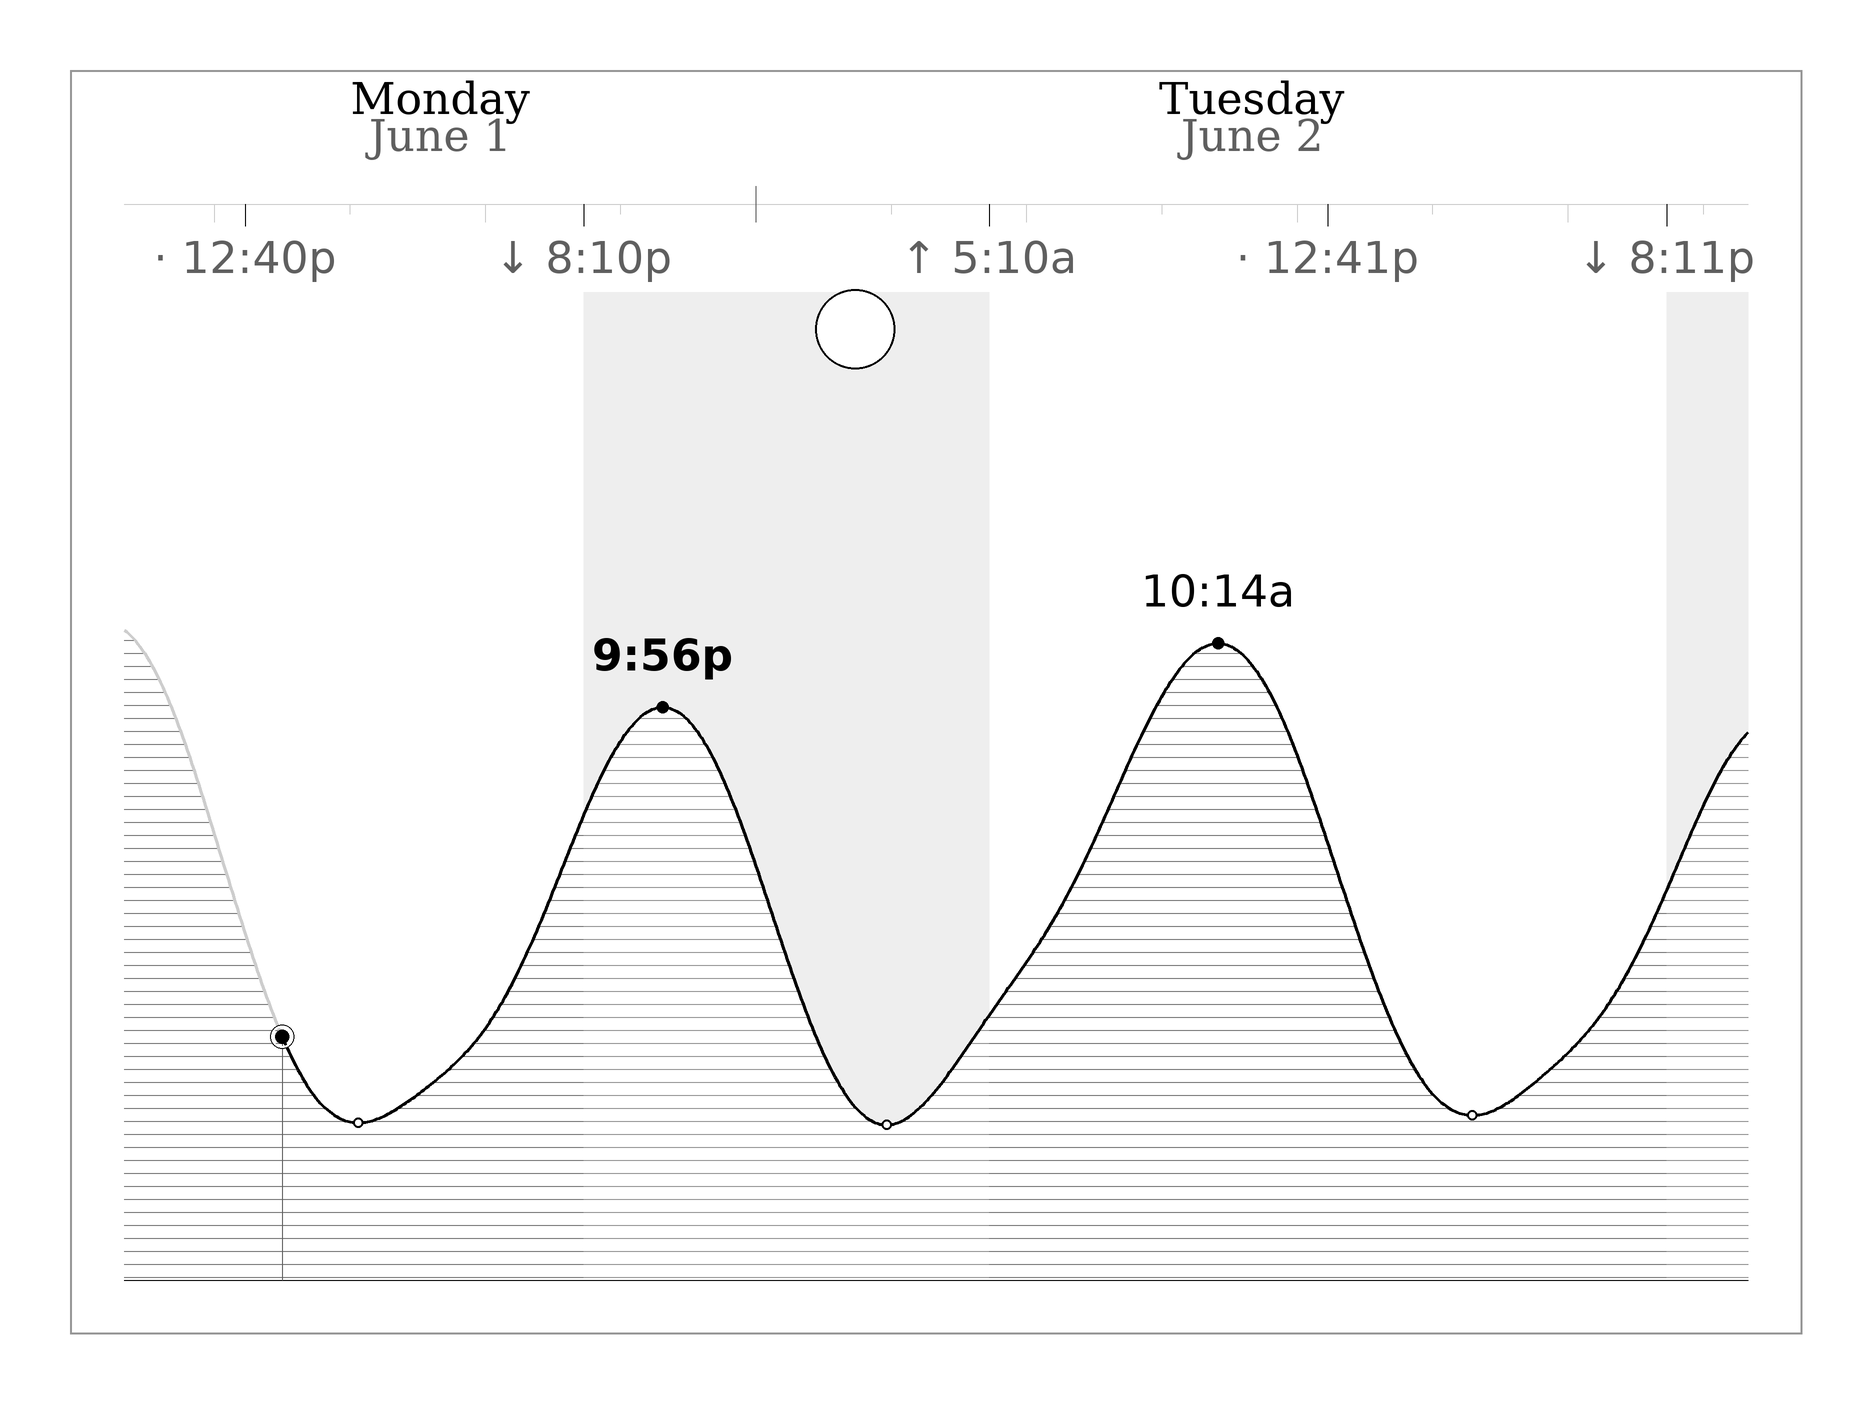
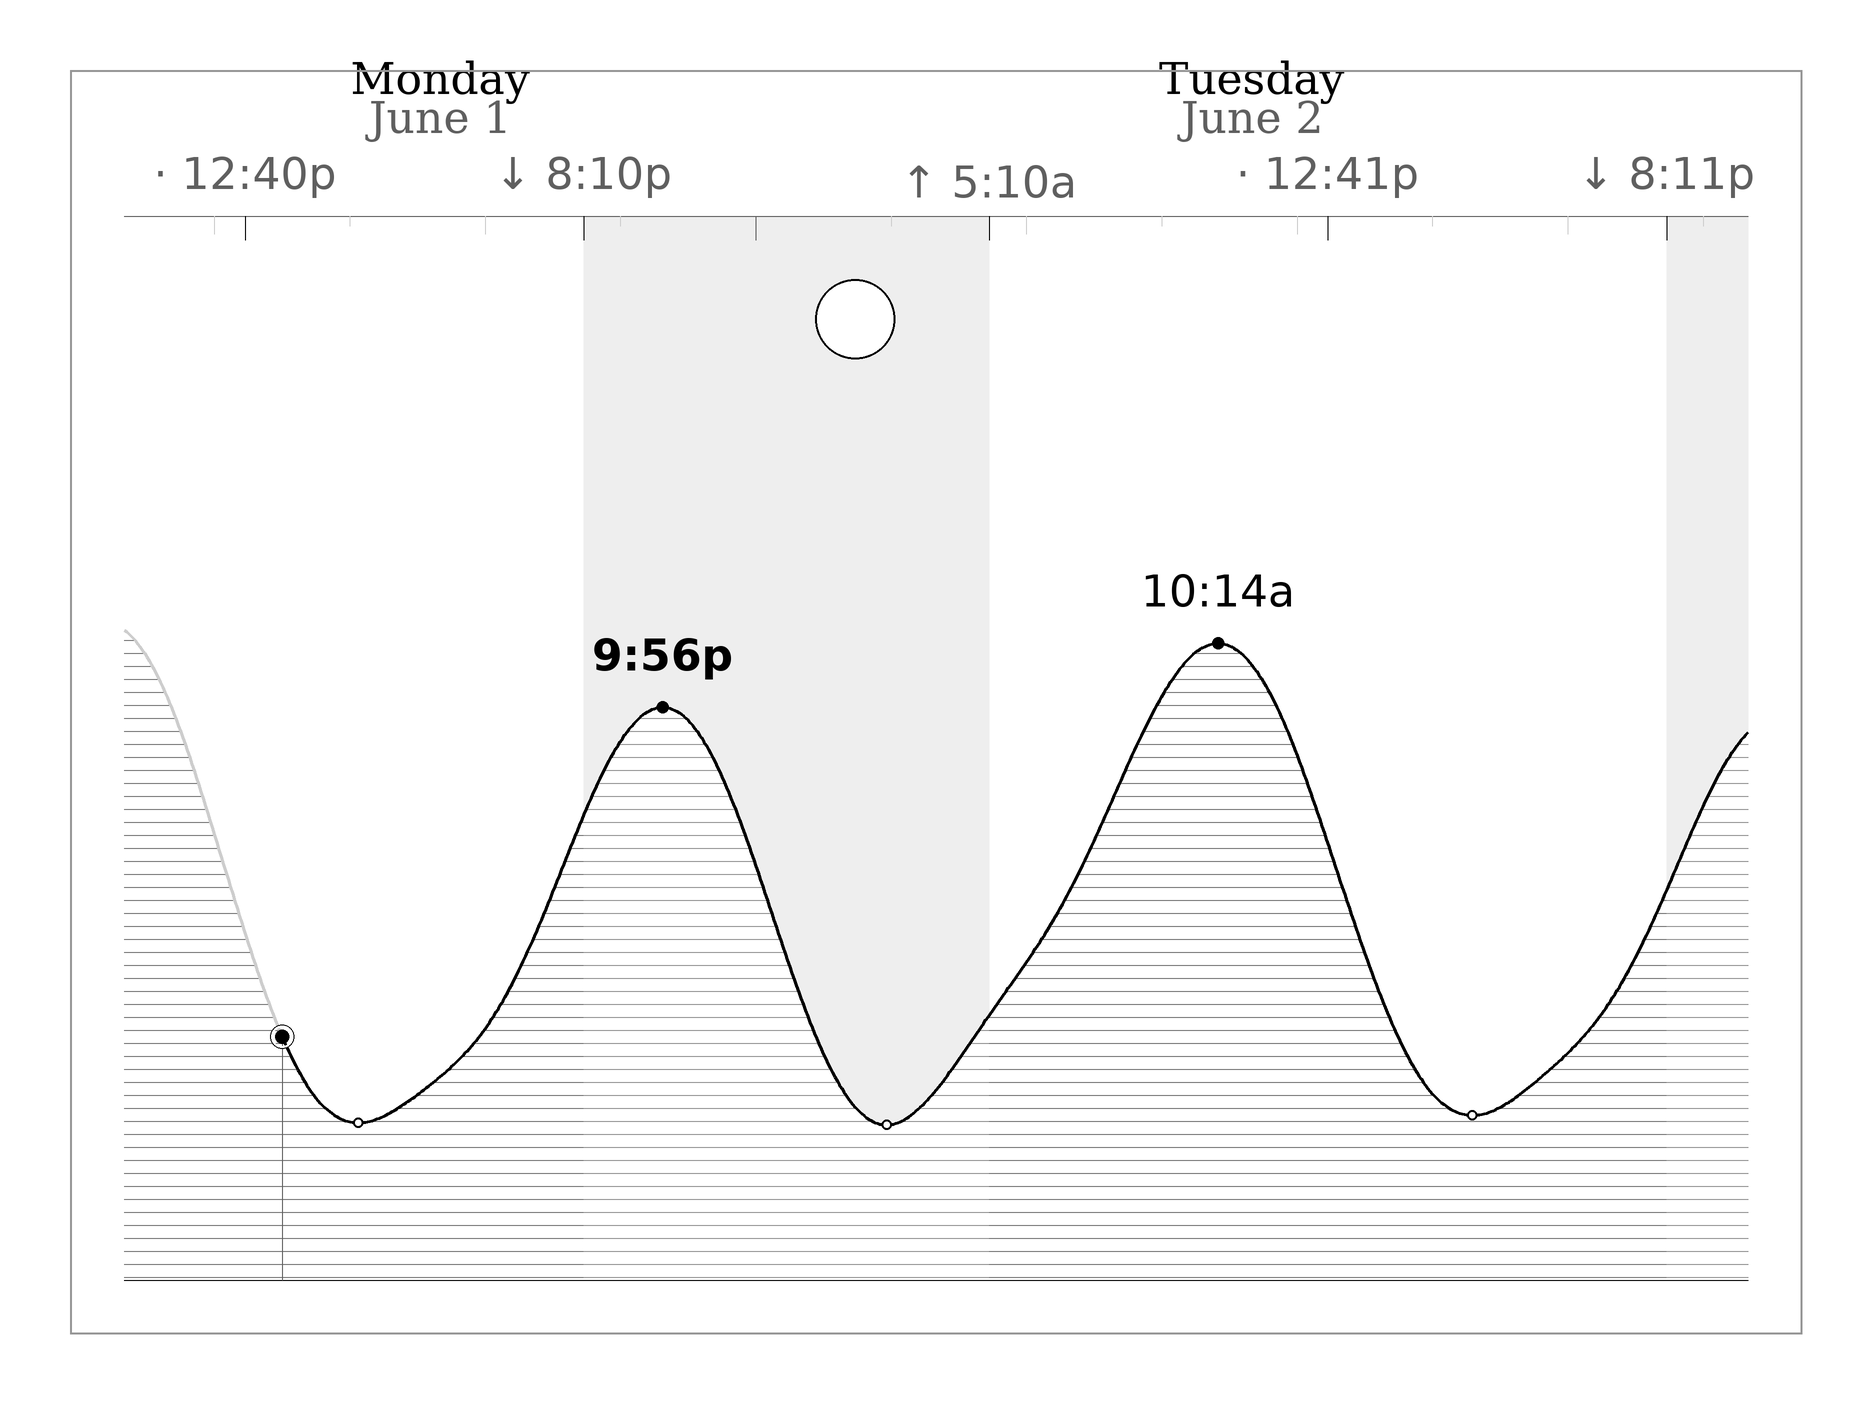
Stack the top in three rows; axis line is the night-box ceiling
Reorder the top chart furniture, top to bottom:
  1. day + date
  2. sunrise / solar noon / sunset times
  3. the x-axis line + 3h/6h/midnight ticks

The axis line now forms the top edge of the grey night boxes, and the hour
ticks hang downward into them, tying the furniture to the chart. Sun-event
ticks are darker/longer to stand out from the hour ticks. Spacing opened up so
the three rows no longer overlap.

https://claude.ai/code/session_014Fq612UsCZ38iCJpVjwvpW

diff --git a/src/python/render/ribbon.py b/src/python/render/ribbon.py
@@ -230,25 +230,10 @@ def _draw_title_and_axis(c, ctx, X):
                        T.INK_SOFT, "serif", 24, anchor="mb")
         day = d1
 
-    # --- axis row: ticks at 3 / 6 / 12 hour increments ---
-    yt = T.AXIS_TICK_Y
-    c.line([(T.PLOT_LEFT, yt), (T.PLOT_RIGHT, yt)], T.GRID, 1)
-    t = start.replace(minute=0, second=0, microsecond=0)
-    while t < start or t.hour % 3 != 0:
-        t += datetime.timedelta(hours=1)
-    while t <= end:
-        x = X(t)
-        if t.hour == 0:
-            c.line([(x, yt - T.AXIS_TICK_LONG), (x, yt + T.AXIS_TICK_LONG)],
-                   T.INK_SOFT, 1)            # midnight / day boundary
-        elif t.hour % 6 == 0:
-            c.line([(x, yt), (x, yt + T.AXIS_TICK_LONG)], T.GRID, 1)
-        else:
-            c.line([(x, yt), (x, yt + T.AXIS_TICK_SHORT)], T.GRID, 1)
-        t += datetime.timedelta(hours=3)
-
-    # --- sun event ticks + times: sunrise, solar noon, sunset per day ---
+    # --- sun event times row (above the axis): sunrise, solar noon, sunset ---
     from data.sun import sun_events
+    yt = T.AXIS_TICK_Y                # axis line; also the top of the night box
+    sun_marks = []                    # (x, when) to also tick on the axis
     d = start.astimezone(tz).date()
     last = end.astimezone(tz).date()
     while d <= last:
@@ -265,10 +250,28 @@ def _draw_title_and_axis(c, ctx, X):
         for label, when in marks:
             x = X(when)
             if T.PLOT_LEFT + 30 <= x <= T.PLOT_RIGHT - 30:
-                c.line([(x, yt), (x, yt + T.AXIS_TICK_LONG + 4)], T.INK, 1)
                 c.text((x, T.SUN_LABEL_Y), label, T.INK_SOFT, "sans", 20,
-                       anchor="ma")
+                       anchor="mb")
+                sun_marks.append(x)
         d += datetime.timedelta(days=1)
+
+    # --- axis line + ticks at 3 / 6 / 12 hour increments (ticks hang down) ---
+    c.line([(T.PLOT_LEFT, yt), (T.PLOT_RIGHT, yt)], T.INK_SOFT, 1)
+    t = start.replace(minute=0, second=0, microsecond=0)
+    while t < start or t.hour % 3 != 0:
+        t += datetime.timedelta(hours=1)
+    while t <= end:
+        x = X(t)
+        if t.hour == 0:
+            c.line([(x, yt), (x, yt + T.AXIS_TICK_LONG + 6)], T.INK_SOFT, 1)
+        elif t.hour % 6 == 0:
+            c.line([(x, yt), (x, yt + T.AXIS_TICK_LONG)], T.GRID, 1)
+        else:
+            c.line([(x, yt), (x, yt + T.AXIS_TICK_SHORT)], T.GRID, 1)
+        t += datetime.timedelta(hours=3)
+    # sun-event ticks: longer and darker so they stand out from hour ticks
+    for x in sun_marks:
+        c.line([(x, yt), (x, yt + T.AXIS_TICK_LONG + 6)], T.INK, 1)
 
 
 def _moon_glyph(c, cx, cy, r, frac, illum):

diff --git a/src/python/render/theme.py b/src/python/render/theme.py
@@ -35,19 +35,20 @@ PLOT_RIGHT = WIDTH - MARGIN - PAD
 
 # Top "chart furniture": a title row (day + date) and an axis row below it
 # carrying tick marks and sunrise / noon / sunset times.
-TITLE_Y = MARGIN + PAD            # baseline of the big day name
-DATE_Y = TITLE_Y + 36             # baseline of the smaller date line
-AXIS_TICK_Y = DATE_Y + 44         # where the time-axis ticks sit
+TITLE_Y = MARGIN + 34             # baseline of the big day name
+DATE_Y = TITLE_Y + 38             # baseline of the smaller date line
+SUN_LABEL_Y = DATE_Y + 56         # sunrise/noon/sunset times row
+AXIS_TICK_Y = SUN_LABEL_Y + 18    # x-axis line + ticks; also the night-box top
 AXIS_TICK_LONG = 18               # tick length for 6h / day marks
 AXIS_TICK_SHORT = 10              # tick length for 3h marks
-SUN_LABEL_Y = AXIS_TICK_Y + 28    # sunrise/noon/sunset times under the ticks
 
-SKY_TOP = SUN_LABEL_Y + 60        # top of the open sky (moon rides here)
+SKY_TOP = AXIS_TICK_Y             # night bands hang from the axis line down
+MOON_SKY_TOP = AXIS_TICK_Y + 40   # moon rides just below the axis
 HORIZON_Y = HEIGHT - MARGIN - PAD  # the sea's baseline; engraved fill sits above
 PLOT_TOP = 380            # highest the tide curve can reach
 PLOT_BOTTOM = HORIZON_Y   # curve's low-water floor == horizon
 
-MOON_STRIP_TOP = SKY_TOP
+MOON_STRIP_TOP = MOON_SKY_TOP
 MOON_STRIP_BOT = PLOT_TOP - 36
 ALT_SCALE = 72.0          # moon altitude (deg) mapped across the moon strip
 
